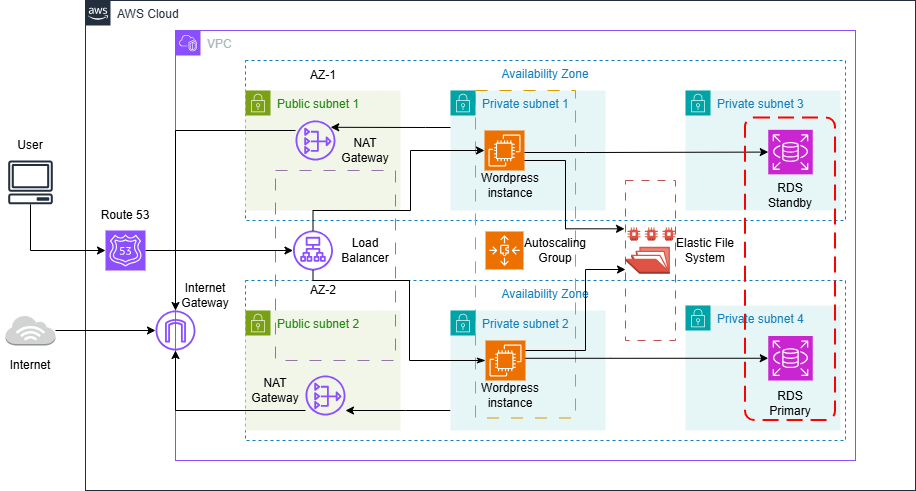
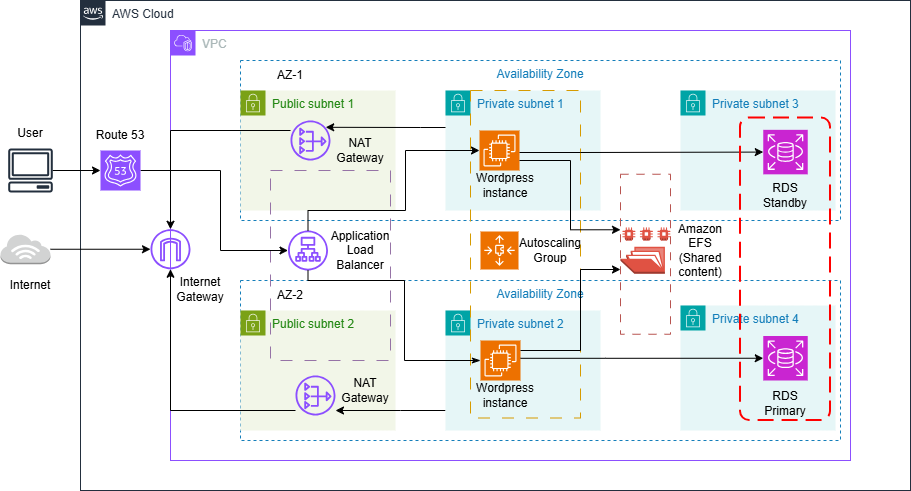
updated documentation

diff --git a/README.md b/README.md
@@ -37,16 +37,19 @@ The GitHub Actions pipeline automates both image building and infrastructure pro
 Workflow process:
 
 1. Developer pushes code to `develop` or `main`
-2. GitHub Actions authenticates to AWS using OIDC
-3. Packer workflow builds the image if there's no image existing or the image script has been updated
-4. Terraform workflow provisions or updates AWS infrastructure once the Packer workflow has completed or there's infrastructure change
+2. GitHub Actions uses OpenID Connect (OIDC) to securely authenticate with AWS without long-lived credentials.
+3. Packer is used to build the image none is existing or the image script has been updated.
+4. The generated AMI ID is stored in AWS Systems Manager Parameter Store.
+5. Terraform retrieves the latest approved AMI ID from Parameter Store during deployment.
+6. Terraform workflow provisions or updates AWS infrastructure once the Packer workflow has completed or there's infrastructure change
 
 
 ## LEARNING OUTCOMES
 - Designed a highly available, secure VPC  
-- Automated ALB, Autoscaling Group, EC2, EFS, RDS provisioning  
+- Automated ALB, Autoscaling Group, Security Groups, EC2, EFS, RDS provisioning  
 - Configured WordPress with RDS backend
 - Created a customized machine image using Packer
+- Learnt to retrieve the secrets from AWS Secrets Manager using bash script
 - Integrated AWS OIDC Authentication with Github actions
 
 ## Provisioned resources
